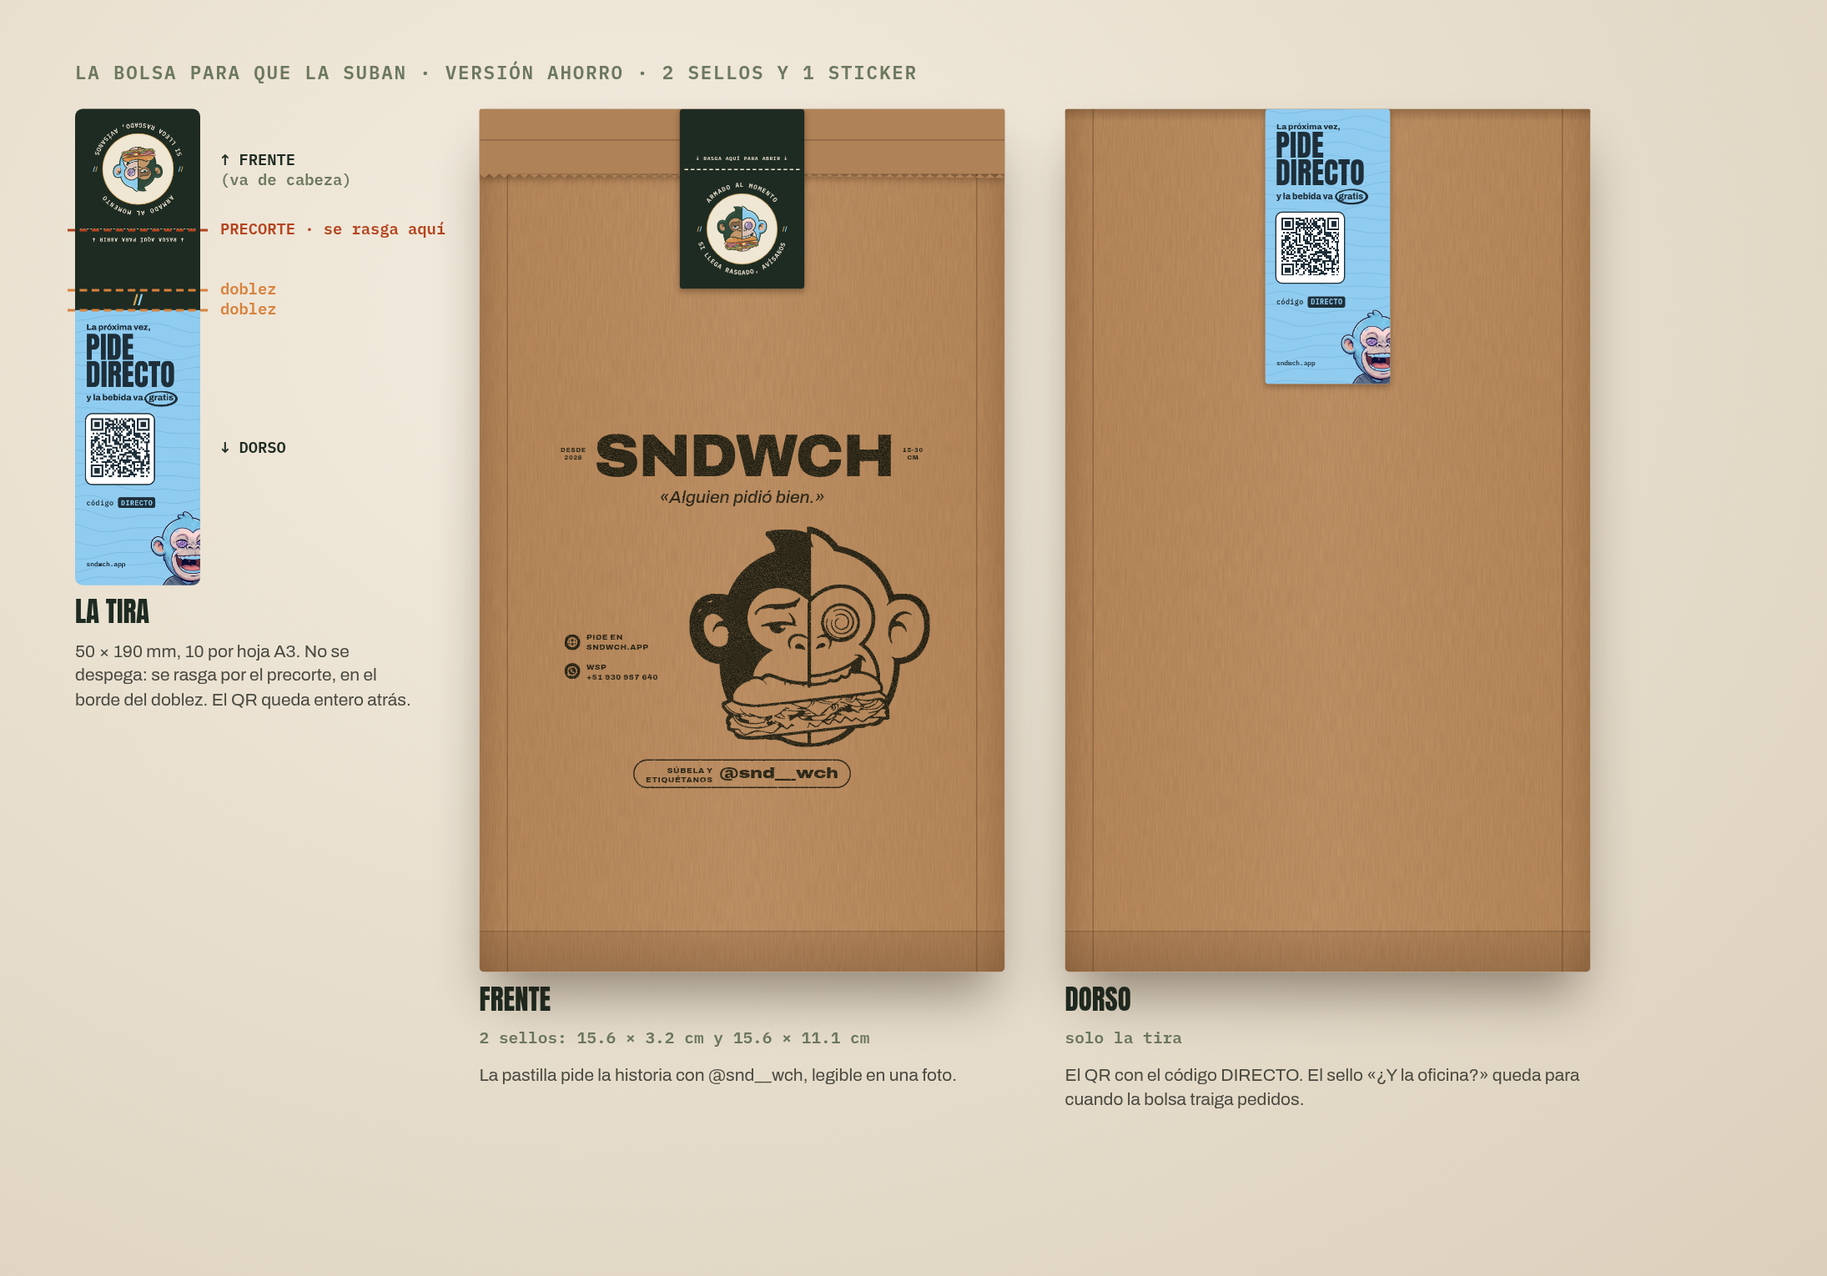
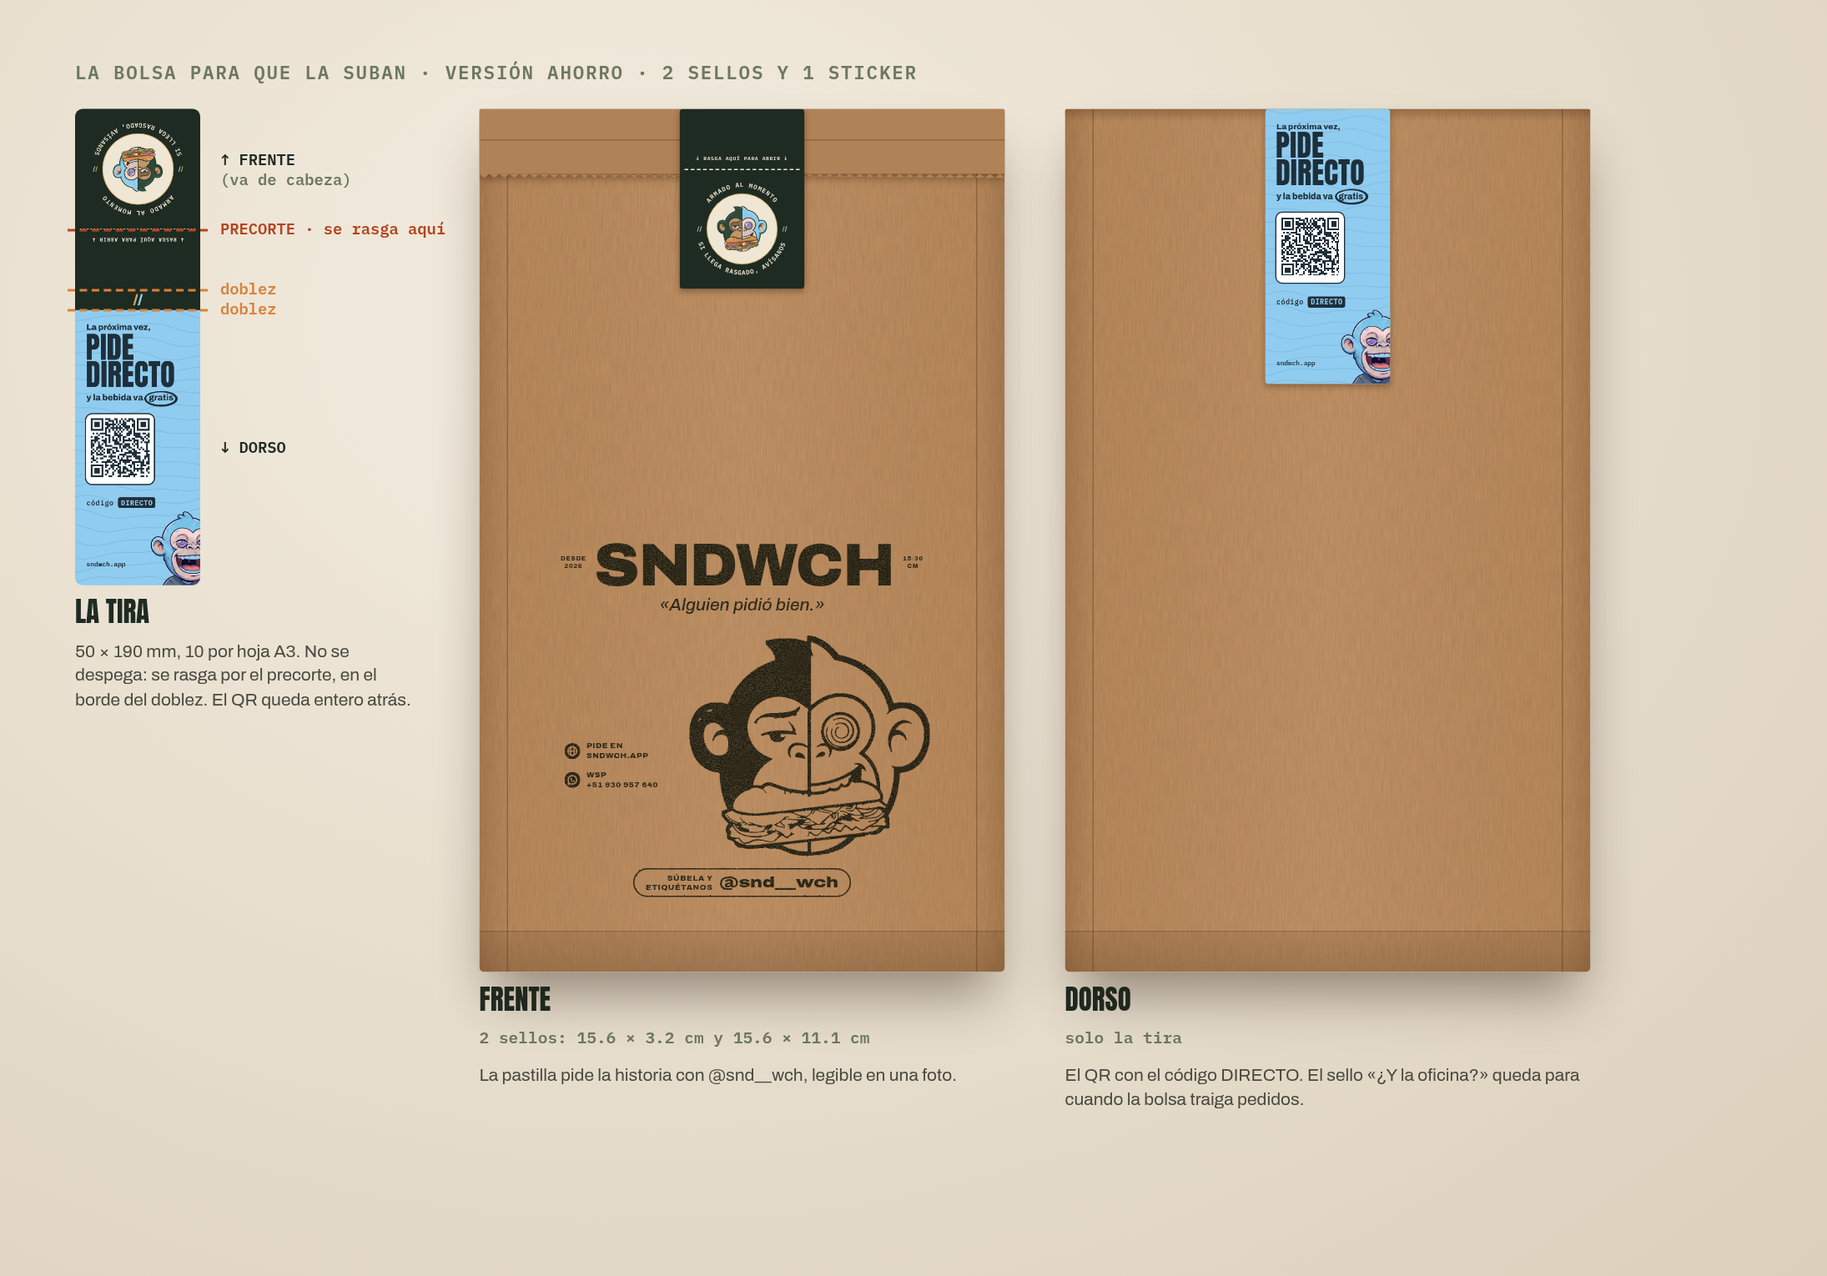
Bolsa simulada en 3D: los sellos bajan para que el sticker no tape «SNDWCH»
Dueño: «el sticker de la bolsa, simúlalo en bolsa, tal vez allí veas el error de
diseño». La maqueta plana suponía un doblez fijo; en 3D, con un 15CM y su bebida la
boca se dobla hasta la comida, el borde de la solapa baja unos 6 cm y el sticker
cae sobre «SNDWCH». Los dos sellos se miden ahora desde la base (pie a 3 cm) y
bajan 4 cm. Queda la simulación (three.js en Chromium) para probar cambios antes
de imprimir, y la lámina con antes, ahora, al abrir y de cerca.

Claude-Session: https://claude.ai/code/session_01NCVgixMFGDjTdiWThGTz7g

Changed region(s): [[0.3105, 0.3379, 0.5279, 0.7065], [0.3105, 0.4915, 0.3416, 0.5529]]

diff --git a/scripts/piezas/simular-bolsa/escena.html b/scripts/piezas/simular-bolsa/escena.html
@@ -1,0 +1,142 @@
+<!doctype html>
+<html><head><meta charset="utf-8">
+<style>html,body{margin:0;background:#E7DFD1;overflow:hidden}canvas{display:block}</style>
+<script type="importmap">{"imports":{"three":"/node_modules/three/build/three.module.js"}}</script>
+</head><body>
+<script type="module">
+// SND//WCH — simulación 3D de la bolsa kraft #20 cerrada, con los dos sellos y el sticker de 7 cm.
+// La sirve render.mjs; los parámetros van en la URL (ver render.mjs). Medidas en mm.
+import * as THREE from 'three';
+
+// ── Parámetros (mm) ───────────────────────────────────────────────────────────────────────
+const q = new URLSearchParams(location.search);
+const W = 210, D = 125, ALTO = 390;          // bolsa kraft #20: 21 × 39 × 12.5
+const T = 80;                                 // la boca, al cerrarse, se aplasta en ~T mm
+const inicio = +q.get('inicio');              // donde empieza a aplastarse (altura del contenido o regla fija)
+const dobleces = +(q.get('dobleces') || 2);
+const giro = +(q.get('abre') || 0);           // grados que se levanta la solapa (0 = cerrada)
+const ancho = +(q.get('w') || 1100), alto = +(q.get('h') || 1300);
+const cam = (q.get('cam') || '-380,300,640').split(',').map(Number);
+const mira = (q.get('mira') || '0,200,0').split(',').map(Number);
+const fov = +(q.get('fov') || 28);
+const PX = 8;                                 // px por mm en las texturas
+
+// Perfil del frente: recto hasta `inicio`, después se cierra hacia el medio.
+const zf = (y) => y <= inicio ? D / 2 : 2.5 + (D / 2 - 2.5) * (1 - ((y - inicio) / T) ** 2);
+const Hc = inicio + T;
+const N = 600, Y = [], Sx = [0];
+for (let i = 0; i <= N; i++) Y.push(Hc * i / N);
+for (let i = 1; i <= N; i++) Sx.push(Sx[i - 1] + Math.hypot(Y[i] - Y[i - 1], zf(Y[i]) - zf(Y[i - 1])));
+const L = Sx[N];                              // largo del frente, del piso a la cresta
+const E = ALTO - L, F = E / dobleces;         // lo que se dobla y la solapa que queda
+const enS = (s) => { // s (mm sobre la superficie desde el piso) → [y, z]
+  let i = Sx.findIndex((v) => v >= s); if (i <= 0) i = 1;
+  const t = (s - Sx[i - 1]) / (Sx[i] - Sx[i - 1] || 1);
+  const y = Y[i - 1] + t * (Y[i] - Y[i - 1]); return [y, zf(y)];
+};
+window.MEDIDAS = { L: +L.toFixed(1), E: +E.toFixed(1), F: +F.toFixed(1), Hc: +Hc.toFixed(1) };
+
+const cargar = (src) => new Promise((ok) => { const im = new Image(); im.onload = () => ok(im); im.src = src; });
+const [kraft, kraftD, cab, pie, franja, cuerpo, franjaRota, cuerpoRoto] = await Promise.all(
+  ['kraft', 'kraft-dorso', '7-cabecera-156x32', '7-pie-156x111', 'sticker-franja', 'sticker-cuerpo', 'sticker-franja-rota', 'sticker-cuerpo-roto'].map((n) => cargar(`/tex/${n}.png`)));
+
+function lienzo(wmm, hmm, fondo) {
+  const c = document.createElement('canvas'); c.width = Math.round(wmm * PX); c.height = Math.round(hmm * PX);
+  const g = c.getContext('2d'); g.fillStyle = g.createPattern(fondo, 'repeat'); g.fillRect(0, 0, c.width, c.height);
+  return [c, g];
+}
+const sombra = (g, f) => { g.save(); g.shadowColor = 'rgba(40,22,8,.35)'; g.shadowBlur = 1.2 * PX; g.shadowOffsetY = 0.4 * PX; f(); g.restore(); };
+
+// ── El frente, en coordenadas de la superficie: y_lienzo = (L − s) ───────────────────────
+// Los sellos se ponen con la bolsa plana: su lugar se mide desde el piso y no cambia por más que
+// se doble la boca. `pie`: a cuántos mm del piso termina la tinta del sello de abajo (2026-10-10:
+// 30; antes, 72, y con un pedido chico el sticker tapaba «SNDWCH»). La cabecera va 1 cm encima.
+const [cf, gf] = lienzo(W, L, kraft);
+gf.globalCompositeOperation = 'multiply';
+const sello = (im, wmm, hmm, xmm, sArriba) => gf.drawImage(im, xmm * PX, (L - sArriba) * PX, wmm * PX, hmm * PX);
+const pieTop = +(q.get('pie') || 30) - 2.9 + 111;   // el PNG del pie deja 2.9 mm bajo la tinta
+sello(cab, 156, 32, 27, pieTop + 37.4);
+sello(pie, 156, 111, 27, pieTop);
+gf.globalCompositeOperation = 'source-over';
+// el fuelle marcado y la base
+gf.fillStyle = 'rgba(60,35,15,.10)'; gf.fillRect(0, (L - 16) * PX, W * PX, 16 * PX);
+// la sombra que deja el borde de la solapa sobre el frente
+const sb = gf.createLinearGradient(0, F * PX, 0, (F + 4) * PX); sb.addColorStop(0, 'rgba(40,22,8,.45)'); sb.addColorStop(1, 'rgba(40,22,8,0)');
+if (!giro) { gf.fillStyle = sb; gf.fillRect(0, F * PX, W * PX, 4 * PX); }
+// el sticker: el precorte cae en el borde de la solapa (s = L − F); el cuerpo baja 59 mm
+const ST = 70, FR = 11;
+const xs = (W - ST) / 2;
+sombra(gf, () => gf.drawImage(giro ? cuerpoRoto : cuerpo, xs * PX, F * PX, ST * PX, (ST - FR) * PX));
+
+// ── La solapa: la cara de afuera es el dorso doblado; lleva la franja del sticker abajo ───
+const [cs, gs] = lienzo(W, F, kraftD);
+const grd = gs.createLinearGradient(0, 0, 0, F * PX); grd.addColorStop(0, 'rgba(60,35,15,.12)'); grd.addColorStop(1, 'rgba(60,35,15,0)');
+gs.fillStyle = grd; gs.fillRect(0, 0, W * PX, F * PX);
+gs.fillStyle = 'rgba(70,42,18,.35)'; gs.fillRect(0, (F - 0.7) * PX, W * PX, 0.7 * PX); // el canto del doblez
+sombra(gs, () => gs.drawImage(giro ? franjaRota : franja, xs * PX, (F - FR) * PX, ST * PX, FR * PX));
+
+// ── Escena ────────────────────────────────────────────────────────────────────────────────
+const r = new THREE.WebGLRenderer({ antialias: true, preserveDrawingBuffer: true });
+r.setSize(ancho, alto); r.setPixelRatio(1); r.outputColorSpace = THREE.SRGBColorSpace;
+r.shadowMap.enabled = true; r.shadowMap.type = THREE.PCFSoftShadowMap;
+document.body.appendChild(r.domElement);
+const escena = new THREE.Scene(); escena.background = new THREE.Color('#E7DFD1');
+const camara = new THREE.PerspectiveCamera(fov, ancho / alto, 10, 5000);
+camara.position.set(...cam); camara.lookAt(...mira);
+escena.add(new THREE.HemisphereLight('#FFF6E8', '#8A7560', 1.25));
+const sol = new THREE.DirectionalLight('#FFF2DE', 2.1); sol.position.set(-420, 760, 520); sol.castShadow = true;
+sol.shadow.mapSize.set(2048, 2048); Object.assign(sol.shadow.camera, { left: -400, right: 400, top: 600, bottom: -200, near: 10, far: 2500 });
+sol.shadow.radius = 6; sol.shadow.bias = -0.0008; escena.add(sol);
+const relleno = new THREE.DirectionalLight('#E8EEF5', 0.55); relleno.position.set(500, 200, 300); escena.add(relleno);
+
+const tex = (c) => { const t = new THREE.CanvasTexture(c); t.colorSpace = THREE.SRGBColorSpace; t.anisotropy = 8; return t; };
+const mat = (map) => new THREE.MeshStandardMaterial({ map, roughness: 0.93, metalness: 0, side: THREE.DoubleSide });
+const texK = (im, rx, ry) => { const [c] = lienzo(rx, ry, im); return tex(c); };
+
+// Una tira de superficie a lo largo de s: filas (y,z) y columnas x; uv con v = s / largo.
+function tira(s0, s1, x0, x1, filas, desplaza, signoZ = 1) {
+  const pos = [], uv = [], idx = [];
+  for (let i = 0; i <= filas; i++) {
+    const s = s0 + (s1 - s0) * i / filas; const [y, z] = enS(s);
+    for (const [j, x] of [[0, x0], [1, x1]]) { pos.push(x, y, signoZ * (z + desplaza)); uv.push(j, i / filas); }
+  }
+  for (let i = 0; i < filas; i++) { const a = i * 2; idx.push(a, a + 1, a + 2, a + 1, a + 3, a + 2); }
+  const g = new THREE.BufferGeometry(); g.setAttribute('position', new THREE.Float32BufferAttribute(pos, 3));
+  g.setAttribute('uv', new THREE.Float32BufferAttribute(uv, 2)); g.setIndex(idx); g.computeVertexNormals(); return g;
+}
+const malla = (g, m) => { const o = new THREE.Mesh(g, m); o.castShadow = o.receiveShadow = true; escena.add(o); return o; };
+
+// frente y dorso (el lienzo del frente va de s = 0 a s = L)
+malla(tira(0, L, -W / 2, W / 2, 160, 0), mat(tex(cf)));
+malla(tira(0, L, W / 2, -W / 2, 160, 0, -1), mat(texK(kraftD, W, L)));
+// costados: el fuelle se mete hacia adentro donde la boca se aplasta (pliegue en V)
+function costado(lado) {
+  const pos = [], uv = [], idx = [], filas = 120;
+  for (let i = 0; i <= filas; i++) {
+    const y = Hc * i / filas, z = zf(y), entra = D / 2 - z;
+    const xb = lado * (W / 2), xm = lado * (W / 2 - entra * 0.92);
+    pos.push(xb, y, z, xm, y, 0, xb, y, -z); uv.push(0, y / Hc, 0.5, y / Hc, 1, y / Hc);
+  }
+  for (let i = 0; i < filas; i++) { const a = i * 3; idx.push(a, a + 3, a + 1, a + 1, a + 3, a + 4, a + 1, a + 4, a + 2, a + 2, a + 4, a + 5); }
+  const g = new THREE.BufferGeometry(); g.setAttribute('position', new THREE.Float32BufferAttribute(pos, 3));
+  g.setAttribute('uv', new THREE.Float32BufferAttribute(uv, 2)); g.setIndex(idx); g.computeVertexNormals();
+  malla(g, mat(texK(kraft, D, Hc)));
+}
+costado(1); costado(-1);
+
+// la solapa (sigue la curva del frente, 1 mm afuera) y el rollo de arriba, giran juntos
+const pivote = new THREE.Group(); const [py, pz] = enS(L); pivote.position.set(0, py, pz); escena.add(pivote);
+const gSol = tira(L - F, L, -W / 2, W / 2, 60, 1.0 + 0.3 * dobleces);
+gSol.translate(0, -py, -pz);
+const solapa = new THREE.Mesh(gSol, mat(tex(cs))); solapa.castShadow = solapa.receiveShadow = true; pivote.add(solapa);
+const rollo = new THREE.Mesh(new THREE.CylinderGeometry(2.2 + 0.9 * dobleces, 2.2 + 0.9 * dobleces, W, 24, 1), mat(texK(kraftD, 40, W)));
+rollo.rotation.z = Math.PI / 2; rollo.position.set(0, 0, -1.5); rollo.castShadow = true; pivote.add(rollo);
+pivote.rotation.x = -giro * Math.PI / 180;
+
+// piso con sombra suave
+const piso = new THREE.Mesh(new THREE.PlaneGeometry(4000, 4000), new THREE.ShadowMaterial({ opacity: 0.22 }));
+piso.rotation.x = -Math.PI / 2; piso.receiveShadow = true; escena.add(piso);
+
+r.render(escena, camara);
+window.LISTO = true;
+</script></body></html>

diff --git a/scripts/piezas/simular-bolsa/texturas.py b/scripts/piezas/simular-bolsa/texturas.py
@@ -1,0 +1,80 @@
+"""SND//WCH — texturas para la simulación 3D de la bolsa (scripts/piezas/simular-bolsa/): kraft
+periódico, los sellos en tinta y el sticker partido en el precorte. Uso: texturas.py <repo> <salida>"""
+import sys, numpy as np
+from PIL import Image, ImageDraw, ImageFilter
+
+REPO, OUT = sys.argv[1], sys.argv[2]
+rng = np.random.default_rng(7)
+
+# ── Kraft: ruido periódico (FFT) estirado en vertical = fibra ─────────────────────────────
+def kraft(n=1024, base=(194, 148, 104), seed=1):
+    r = np.random.default_rng(seed)
+    w = r.standard_normal((n, n))
+    fy = np.fft.fftfreq(n)[:, None]; fx = np.fft.fftfreq(n)[None, :]
+    # fibras: poca frecuencia en y (largas en vertical), más en x
+    filt = 1.0 / (1e-4 + (fx * 1.0) ** 2 + (fy * 9.0) ** 2) ** 0.55
+    f = np.real(np.fft.ifft2(np.fft.fft2(w) * filt))
+    f = (f - f.mean()) / f.std()
+    g = r.standard_normal((n, n))
+    g = np.real(np.fft.ifft2(np.fft.fft2(g) / (1e-3 + fx ** 2 + fy ** 2) ** 0.9)); g = (g - g.mean()) / g.std()
+    m = 1 + 0.035 * f + 0.03 * g
+    a = np.clip(np.array(base)[None, None, :] * m[:, :, None], 0, 255).astype(np.uint8)
+    return Image.fromarray(a, 'RGB')
+
+kraft().save(f'{OUT}/kraft.png')
+kraft(base=(186, 140, 97), seed=2).save(f'{OUT}/kraft-dorso.png')
+
+# ── Sellos: negro sobre blanco → tinta verde casi negra con alfa y algo de falla ─────────
+TINTA = (30, 43, 34)
+for nombre in ['7-cabecera-156x32', '7-pie-156x111']:
+    im = Image.open(f'{REPO}/docs/marketing/bolsa/sellos/{nombre}.png').convert('L')
+    L = np.asarray(im).astype(np.float32) / 255.0
+    a = 1.0 - L
+    h, w = a.shape
+    falla = rng.standard_normal((h // 6 + 1, w // 6 + 1))
+    falla = np.asarray(Image.fromarray(((falla - falla.min()) / np.ptp(falla) * 255).astype(np.uint8)).resize((w, h), Image.BILINEAR)) / 255.0
+    a = np.clip(a * (0.80 + 0.22 * falla), 0, 1) * 0.92
+    rgba = np.zeros((h, w, 4), np.uint8)
+    rgba[..., 0], rgba[..., 1], rgba[..., 2] = TINTA
+    rgba[..., 3] = (a * 255).astype(np.uint8)
+    Image.fromarray(rgba, 'RGBA').save(f'{OUT}/{nombre}.png')
+
+# ── Sticker 7×7: se recorta al corte, esquinas de 4 mm, y se parte en el precorte ─────────
+LADO, FRANJA, SANGRA = 70, 11, 3
+st = Image.open(f'{REPO}/docs/marketing/stickers/5-cierre-qr-70x70.png').convert('RGBA')
+k = st.size[0] / (LADO + 2 * SANGRA)
+st = st.crop((round(SANGRA * k), round(SANGRA * k), round((SANGRA + LADO) * k), round((SANGRA + LADO) * k)))
+n = st.size[0]
+mask = Image.new('L', (n, n), 0)
+ImageDraw.Draw(mask).rounded_rectangle((0, 0, n - 1, n - 1), radius=round(4 * k), fill=255)
+st.putalpha(mask)
+st.save(f'{OUT}/sticker.png')
+corte = round(FRANJA * k)
+arriba, abajo = st.crop((0, 0, n, corte)), st.crop((0, corte, n, n))
+arriba.save(f'{OUT}/sticker-franja.png'); abajo.save(f'{OUT}/sticker-cuerpo.png')
+
+# Rasgado: el micro-perforado deja dientitos; un poco de papel blanco asoma en el borde.
+def rasgar(im, borde):  # borde: 'abajo' o 'arriba'
+    im = im.copy(); w, h = im.size
+    a = np.asarray(im.split()[-1]).copy()
+    paso = max(2, round(1.0 * k))
+    for x in range(w):
+        d = int(abs(np.sin(x / paso * np.pi)) * 0.35 * k + rng.random() * 0.25 * k)
+        if borde == 'abajo': a[h - d:, x] = 0
+        else: a[:d, x] = 0
+    im.putalpha(Image.fromarray(a))
+    # filo blanco del papel
+    rgb = np.asarray(im).copy()
+    for x in range(w):
+        col = rgb[:, x, 3]
+        ys = np.where(col > 0)[0]
+        if len(ys) == 0: continue
+        y = ys.max() if borde == 'abajo' else ys.min()
+        for dy in range(round(0.25 * k)):
+            yy = y - dy if borde == 'abajo' else y + dy
+            if 0 <= yy < h: rgb[yy, x, :3] = (236, 232, 222)
+    return Image.fromarray(rgb, 'RGBA')
+
+rasgar(arriba, 'abajo').save(f'{OUT}/sticker-franja-rota.png')
+rasgar(abajo, 'arriba').save(f'{OUT}/sticker-cuerpo-roto.png')
+print('px/mm del sticker:', round(k, 2))

diff --git a/docs/marketing/bolsa/README.md b/docs/marketing/bolsa/README.md
@@ -35,6 +35,29 @@ antes el logo iba arriba y se iba con la solapa; corregido). El dorso queda limp
 
 Inversión inicial: 1,000 stickers S/150 + 1,000 bolsas ~S/260 + los dos sellos (por cotizar).
 
+## Simulada en 3D (2026-10-10): el sticker tapaba «SNDWCH»
+Dueño: «el sticker de la bolsa, simúlalo en bolsa, tal vez allí veas el error de diseño».
+
+![simulación 3D](simulacion-3d.jpg)
+
+**El error:** la maqueta plana suponía que la boca se dobla siempre igual (2.3 cm, dos veces). En
+3D, con lo que de verdad va adentro, se ve que no: con un pedido grande la bolsa se dobla poco y
+todo se lee; con **un 15CM y su bebida** la bolsa se dobla hasta la comida, el borde de la solapa baja
+unos 6 cm y el sticker (que siempre va en ese borde) queda **encima de «SNDWCH»**.
+
+**El arreglo, sin costo:** los dos sellos se cuentan desde la **base**, no desde arriba, y bajan
+4 cm. Arriba queda kraft libre para que el sticker caiga donde caiga la solapa.
+
+**Dónde sellar** (bolsa plana, frente hacia ti, sellos centrados a lo ancho):
+- **sello de abajo** (el pie, 15.6 × 11.1 cm): su borde de abajo a **3 cm de la base**;
+- **sello de arriba** (la cabecera, 15.6 × 3.2 cm): **1 cm encima** del de abajo.
+
+**Al cerrar:** dos dobleces hacia el frente, desde el borde de arriba. Si el pedido es muy chico,
+no se aplasta la bolsa contra la comida: se dobla igual que siempre y la comida va abajo.
+
+La simulación se rehace con `scripts/piezas/simular-bolsa/` (three.js en Chromium; el uso está
+en `render.mjs`): sirve para probar cualquier cambio de bolsa, sello o sticker antes de imprimir.
+
 ## La bolsa para que la suban, versión ahorro (2026-10-09)
 Dueño: «basándote en marketing, en que la bolsa sea viral» → «cada sello cuesta dinero» →
 «la idea para rasgar, genial; las frases, para el futuro mejor. Mejora más ahorrando precios».
@@ -132,7 +155,8 @@ Total estimado: **~S/0.65 por pedido** (contra S/3.90 de la bolsa impresa a 100 
 1. **En tanda, antes del servicio:** se sellan 50 bolsas y se les pega el sticker del QR atrás.
    Son unos minutos y se hace con las manos limpias, lejos de la plancha.
 2. **Al despachar:** pedido adentro, la boca se dobla **dos veces** hacia el frente y el sticker de
-   cierre cruza el doblez, al centro. Nada más.
+   cierre cruza el doblez, al centro, con el precorte justo en el borde de la solapa. Nada más.
+   Aunque el pedido sea chico, no se aplasta la bolsa contra la comida (ver «Simulada en 3D»).
 3. Tinta del sello: para papel y kraft, base agua, en **verde casi negro** (`#1E2B22`) o negro.
    Se deja secar un minuto antes de apilar.
 

diff --git a/docs/sesiones/2026-10-10.md b/docs/sesiones/2026-10-10.md
@@ -12,6 +12,9 @@
   1.er pedido, QR `?src=calle&codigo=DIRECTO`.
 - Sticker de la calle: SANDO sale y entra el logo (dueño: «cambia a sando por el logo»). El PNG del
   logo traía una mota suelta abajo a la izquierda: se recorta en el script (`SIN_MOTA`).
+- Bolsa simulada en 3D (`scripts/piezas/simular-bolsa/`, lámina `docs/marketing/bolsa/simulacion-3d.jpg`).
+  Error encontrado: con un pedido chico la boca se dobla más y el sticker tapaba «SNDWCH». Los sellos
+  bajan 4 cm y se miden desde la base (pie a 3 cm de la base, cabecera 1 cm encima).
 - Archivos para la imprenta, sin texto extra, en `docs/marketing/imprimir/` con su README de medidas.
 - Código promocional renombrado a **DIRECTO** (migraciones 20261009112505 y 20261009122048).
 - Pauta solo en Instagram; respuestas automáticas de DM en `docs/marketing/PAUTA_BARATA.md`.
@@ -26,6 +29,8 @@
 - «al primer sticker le falta una parte. Segundo sticker, ¿por qué a alguien le importaría que diga
   sando si no lo conocen?» → el sello ya no firma «Sando».
 - «Esta al revés mira lo que hiciste antes y las medidas. Hazlo bien» → logo debajo del precorte.
+- «Cambia a sando por el logo» (sticker de la calle).
+- «El sticker de la bolsa, simúlalo en bolsa, tal vez allí veas el error de diseño» → simulación 3D.
 
 ## Pendiente
 - Dueño: preguntar a Host4Plus por el micro-perforado, el acabado mate, el envío a Trujillo y el

diff --git a/docs/ENTORNO.md b/docs/ENTORNO.md
@@ -493,6 +493,14 @@ cuadro con Playwright → MP4 H.264). En el contenedor no hay ffmpeg: `pip insta
 <scratchpad> imageio-ffmpeg` trae un binario estático (`FFMPEG=<ruta>`). En GitHub sirve el de
 `apt` o el mismo paquete. Fuentes: inyectar el CSS local (`FUENTES_CSS`), ver «Fuentes de Google».
 
+## 3D en Chromium sin GPU (2026-10-10)
+
+WebGL funciona en el Chromium del contenedor con `--use-angle=swiftshader --enable-unsafe-swiftshader
+--ignore-gpu-blocklist` (three.js, sombras incluidas). `three` no está en el package.json: se copia
+o instala sin guardar (`npm install --no-save three@0.170.0`). Un HTML que carga módulos no anda
+desde `file://`: se sirve con `page.route()` (ver `scripts/piezas/simular-bolsa/render.mjs`).
+Ojo: `page.setContent()` no carga imágenes `file://`; se escribe el HTML a disco y se usa `goto`.
+
 ## Rutinas de Claude creadas desde una sesión (2026-10-07)
 - `create_trigger` (MCP Claude_Code_Remote) desde una sesión de Claude Code crea la rutina **sin
   el repo** (`sources: []`) y **sin conectores** (el parámetro `connectors` no está disponible
